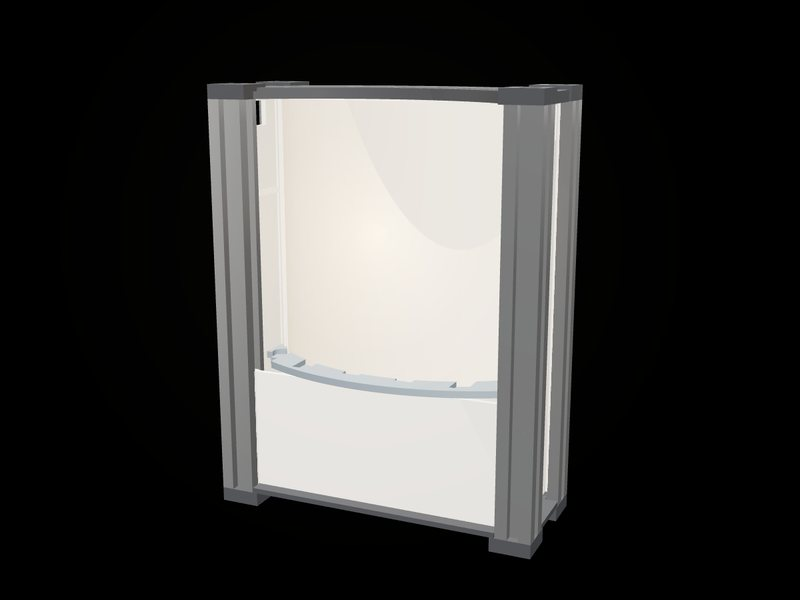
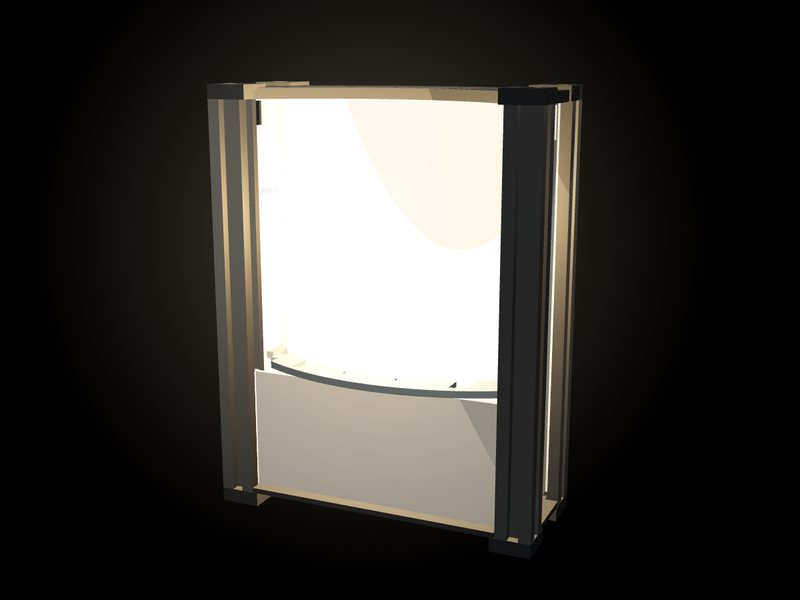
Make the lamp ignite, add cursor-following orbs, dwell on the lit state
Ignition: the room now dims from p=0.74 so the lamp has something to win
against, then strikes -- two stutters, a surge past full, and a settle.
Measured frame brightness over the sequence: 28.8 dark, 44.5 on the first
stutter, back to 28.8, 62.7 at the surge, 54.9 settled. The curve depends
only on scroll position, so scrubbing backwards replays it exactly.

Orbs: six additive sprites in the amber of the lamp's own light, each
chasing the cursor with a different lag so they read as one trail. They
fade in only after 점등 is complete and sit behind the lamp, which
occludes them.

Dwell: the scrolly is 820vh (was 620) and scroll maps non-linearly --
the first 66% covers assembly, the last 34% covers ignition and the lit
state, roughly doubling the time spent watching it burn.

§2.5 amended: the 3-moving-elements rule counts independently moving UI
elements, and the six sprites of one effect count as one.

Card images regenerated, since two were shot inside the relit region.
Verified: p=0.00 to 0.70 unchanged at 0.00%, only p=0.97 moved (31.27%),
and repeat runs are still bit-identical.

diff --git a/public/lamp/index.html b/public/lamp/index.html
@@ -63,7 +63,7 @@
     font-family: var(--font-text);
   }
 
-  #fl-scrolly { position: relative; height: 620vh; }
+  #fl-scrolly { position: relative; height: 820vh; }
   #fl-stage { position: sticky; top: 0; height: 100svh; overflow: hidden; background: var(--bg-canvas); }
   #fl-canvas { position: absolute; inset: 0; width: 100%; height: 100%; display: block; touch-action: pan-y; }
 
@@ -501,15 +501,52 @@ const lb = lightMesh.userData.box;
 const lampLight = new THREE.PointLight(0xffa850, 0, 420, 2);
 lampLight.position.set((lb.min.x + lb.max.x) / 2, (lb.min.z + lb.max.z) / 2 + 10, -((lb.min.y + lb.max.y) / 2) + 30);
 scene.add(lampLight);
-const halo = (() => {
+const GLOW_TEX = (() => {
   const c = document.createElement('canvas'); c.width = c.height = 128;
   const x = c.getContext('2d'), gr = x.createRadialGradient(64, 64, 0, 64, 64, 64);
   gr.addColorStop(0, 'rgba(255,190,110,.9)'); gr.addColorStop(.35, 'rgba(255,150,60,.28)'); gr.addColorStop(1, 'rgba(255,120,30,0)');
   x.fillStyle = gr; x.fillRect(0, 0, 128, 128);
-  const s = new THREE.Sprite(new THREE.SpriteMaterial({ map: new THREE.CanvasTexture(c), blending: THREE.AdditiveBlending, depthWrite: false, transparent: true, opacity: 0 }));
-  s.position.copy(lampLight.position); s.scale.setScalar(360);
+  return new THREE.CanvasTexture(c);
+})();
+const glowSprite = (scale) => new THREE.Sprite(new THREE.SpriteMaterial({
+  map: GLOW_TEX, blending: THREE.AdditiveBlending, depthWrite: false, transparent: true, opacity: 0 }));
+
+const halo = (() => {
+  const s = glowSprite(); s.position.copy(lampLight.position); s.scale.setScalar(360);
   scene.add(s); return s;
 })();
+
+/* 커서를 따라오는 배경 오브.
+   점등이 끝난 뒤에만 나타나고, 램프 빛과 같은 색, 같은 흔들림을 씁니다.
+   깊이는 램프보다 뒤라서 본체에 가려집니다. */
+const ORBS = (() => {
+  const list = [];
+  const N = 6;
+  for (let i = 0; i < N; i++) {
+    const sp = glowSprite();
+    sp.scale.setScalar(150 + i * 46);
+    sp.position.set(0, 120, -700);
+    sp.renderOrder = -1;
+    scene.add(sp);
+    list.push({
+      sp,
+      lag: 2.6 - i * 0.33,                       // 뒤쪽 오브일수록 더 늦게 따라옵니다
+      off: [(i % 2 ? 1 : -1) * (40 + i * 46), ((i % 3) - 1) * 62, -i * 55],
+      pos: new THREE.Vector3(0, 120, -700),
+      amp: 0.16 - i * 0.017,
+    });
+  }
+  return list;
+})();
+
+let ptrNDC = null;
+addEventListener('pointermove', (e) => {
+  if (e.pointerType === 'touch') return;
+  const r = canvas.getBoundingClientRect();
+  ptrNDC = ptrNDC || new THREE.Vector2();
+  ptrNDC.set(((e.clientX - r.left) / r.width) * 2 - 1, -((e.clientY - r.top) / r.height) * 2 + 1);
+}, { passive: true });
+const orbRay = new THREE.Vector3(), orbWant = new THREE.Vector3();
 
 /* =====================================================================
    4) 스크롤 타임라인
@@ -536,13 +573,37 @@ function camAngles(p) {
   const l = CAM[CAM.length - 1]; return [l[1], l[2]];
 }
 
+/* 점등은 서서히 밝아지지 않습니다. 예열하듯 두세 번 깜빡인 뒤 한 번 확 올라왔다가
+   제 밝기로 가라앉습니다. 시간이 아니라 스크롤 위치에만 의존하므로 되감아도 같습니다. */
+const IGNITE_A = 0.84, IGNITE_B = 0.94;
+function ignition(p) {
+  const q = clamp((p - IGNITE_A) / (IGNITE_B - IGNITE_A));
+  if (q <= 0) return 0;
+  let v = 0;
+  for (const [a, b, amp] of [[0.02, 0.08, 0.20], [0.13, 0.19, 0.48], [0.25, 0.31, 0.26]]) {
+    if (q >= a && q < b) v = Math.max(v, amp * Math.sin(Math.PI * (q - a) / (b - a)));
+  }
+  if (q > 0.34) {
+    const rise = smooth(clamp((q - 0.34) / 0.20));
+    const settle = smooth(clamp((q - 0.54) / 0.46));
+    v = Math.max(v, rise * (1 + 0.70 * (1 - settle)));
+  }
+  return v;
+}
+
+/* 조립은 스크롤 앞 66%, 점등과 그 여운은 뒤 34%에 배분합니다. */
+const SPLIT_S = 0.66, SPLIT_P = 0.83;
+const stretch = (x) => x <= SPLIT_S ? x / SPLIT_S * SPLIT_P
+                                    : SPLIT_P + (x - SPLIT_S) / (1 - SPLIT_S) * (1 - SPLIT_P);
+
 let target = 0, cur = 0, camC = new THREE.Vector3(0, 120, 0), camD = 900, camInit = false;
+let frameDt = 1 / 60;
 const reduce = matchMedia('(prefers-reduced-motion: reduce)').matches;
 const tmpBox = new THREE.Box3(), tmpC = new THREE.Vector3(), tmpS = new THREE.Vector3();
 
 function readScroll() {
   const r = sec.getBoundingClientRect();
-  target = clamp(-r.top / Math.max(1, r.height - innerHeight));
+  target = stretch(clamp(-r.top / Math.max(1, r.height - innerHeight)));
 }
 
 function apply(p, time) {
@@ -557,12 +618,24 @@ function apply(p, time) {
     tmpBox.expandByPoint(tmpS.set(box.min.x + m.position.x, box.min.y + m.position.y, box.min.z + m.position.z));
     tmpBox.expandByPoint(tmpS.set(box.max.x + m.position.x, box.max.y + m.position.y, box.max.z + m.position.z));
   }
+  // 점등 직전에 주변광을 떨어뜨립니다. 방이 어두워져야 램프가 켜지는 것이 보입니다.
+  const dusk = seg(p, 0.74, 0.85);
+  key.intensity = 0.9 * (1 - 0.86 * dusk);
+  const envK = 1 - 0.82 * dusk;
+  MATS.alu.envMapIntensity   = 1.7 * envK;
+  MATS.dark.envMapIntensity  = 0.6 * envK;
+  MATS.cream.envMapIntensity = 0.9 * envK;
+  MATS.slate.envMapIntensity = 0.9 * envK;
+  MATS.light.envMapIntensity = 0.9 * envK;
+
   // 점등
-  const on = seg(p, 0.86, 0.97);
+  const on = ignition(p);
   const flick = reduce ? 1 : 1 + 0.025 * Math.sin(time * 2.1) + 0.015 * Math.sin(time * 5.3);
-  MATS.light.emissiveIntensity = on * 0.8 * flick;
-  lampLight.intensity = on * 1.1 * flick;
-  halo.material.opacity = on * 0.22 * flick;
+  MATS.light.emissiveIntensity = on * 2.8 * flick;
+  lampLight.intensity = on * 3.6 * flick;
+  halo.material.opacity = Math.min(0.75, on * 0.42 * flick);
+  // 서지 순간에는 화면 전체가 한 번 들립니다
+  renderer.toneMappingExposure = 1.05 + 0.34 * Math.max(0, on - 1);
 
   // 카메라: 현재 파트 묶음의 경계구에 맞춰 거리 자동 (조립 좌표 → Three 좌표)
   const cx = (tmpBox.min.x + tmpBox.max.x) / 2, cy = (tmpBox.min.y + tmpBox.max.y) / 2, cz = (tmpBox.min.z + tmpBox.max.z) / 2;
@@ -578,8 +651,25 @@ function apply(p, time) {
   camera.position.set(camC.x + camD * Math.sin(a) * Math.cos(e), camC.y + camD * Math.sin(e), camC.z + camD * Math.cos(a) * Math.cos(e));
   camera.lookAt(camC);
 
+  // 커서를 따라오는 배경 오브: 점등이 자리잡은 뒤부터
+  const orbOn = smooth(clamp((p - 0.93) / 0.05));
+  if (orbOn > 0.001 && ptrNDC) {
+    orbRay.set(ptrNDC.x, ptrNDC.y, 0.5).unproject(camera).sub(camera.position).normalize();
+    orbWant.copy(camera.position).addScaledVector(orbRay, camD * 1.35);
+    for (const o of ORBS) {
+      const k = 1 - Math.exp(-o.lag * frameDt);
+      o.pos.x += (orbWant.x + o.off[0] - o.pos.x) * k;
+      o.pos.y += (orbWant.y + o.off[1] - o.pos.y) * k;
+      o.pos.z += (orbWant.z + o.off[2] - o.pos.z) * k;
+      o.sp.position.copy(o.pos);
+      o.sp.material.opacity = orbOn * o.amp * flick;
+    }
+  } else {
+    for (const o of ORBS) o.sp.material.opacity = 0;
+  }
+
   // HUD
-  const stepIdx = p < 0.05 ? 0 : p < 0.19 ? 1 : p < 0.33 ? 2 : p < 0.52 ? 3 : p < 0.59 ? 4 : p < 0.69 ? 5 : p < 0.83 ? 6 : 7;
+  const stepIdx = p < 0.05 ? 0 : p < 0.19 ? 1 : p < 0.33 ? 2 : p < 0.52 ? 3 : p < 0.59 ? 4 : p < 0.69 ? 5 : p < 0.84 ? 6 : 7;
   el.no.textContent = String(stepIdx).padStart(2, '0') + ' / 07';
   el.name.textContent = STEPS[stepIdx][0];
   el.desc.textContent = STEPS[stepIdx][1];
@@ -612,7 +702,7 @@ let last = performance.now();
 function frame(now) {
   requestAnimationFrame(frame);
   if (!visible) { last = now; return; }
-  const dt = Math.min(0.1, (now - last) / 1000); last = now;
+  const dt = Math.min(0.1, (now - last) / 1000); last = now; frameDt = dt;
   cur += (target - cur) * Math.min(1, dt * 7);
   if (Math.abs(target - cur) < 1e-4) cur = target;
   apply(cur, now / 1000);

diff --git a/design-system/DESIGN_SYSTEM.md b/design-system/DESIGN_SYSTEM.md
@@ -160,9 +160,16 @@ landonorris.com의 음수 자간 처리를 그대로 가져온 규칙입니다.
 
 **규칙**
 - 색과 투명도는 애니메이션합니다. 레이아웃 속성(width, top)은 하지 않습니다.
-- 한 화면에서 동시에 움직이는 요소는 **3개 이하**.
+- 한 화면에서 **독립적으로** 움직이는 UI 요소는 **3개 이하**.
+  3D 씬의 한 효과를 이루는 여러 스프라이트는 하나로 셉니다. 커서를 따라오는
+  배경 오브 6개가 그런 경우이고, 서로 다른 지연으로 같은 목표를 따라가므로
+  사용자에게는 궤적 하나로 보입니다.
 - `prefers-reduced-motion`에서는 transform 애니메이션을 모두 제거하고 opacity만 남깁니다.
 - 스크롤 씬은 스크롤 위치에 **직접 연동**합니다. 스크롤과 무관한 자동 재생은 쓰지 않습니다.
+- 점등은 밝기를 선형으로 올리지 않습니다. 직전에 주변광을 떨어뜨리고, 두 번 깜빡인 뒤
+  한 번 과하게 올라왔다가 제 밝기로 가라앉습니다. 스크롤 위치에만 의존하므로
+  되감으면 그대로 되돌아갑니다.
+- 커서 추종은 점등이 끝난 뒤에만 작동합니다. 그 전에는 커서에 반응하지 않습니다.
 
 ---
 
@@ -331,6 +338,7 @@ landonorris.com의 음수 자간 처리를 그대로 가져온 규칙입니다.
 | 미정의 토큰 참조 | 0개 | 0개 | 통과 |
 | 브레이크포인트 | 480 / 768 / 1024 / 1440 만 | 동일 | 통과 |
 | 터치 대상 | 44 × 44px 이상 | md 이하에서 44px | 통과 |
+| 점등 전후 밝기 차 | 눈에 보일 것 | 평균 28.8 → 62.7 | 통과 |
 | 본문 명암비 | 4.5:1 이상 | 5.3:1 이상 | 통과 |
 
 `design-system/look.js` 가 스크롤 5개 지점을 고정 조건에서 렌더링하고,
